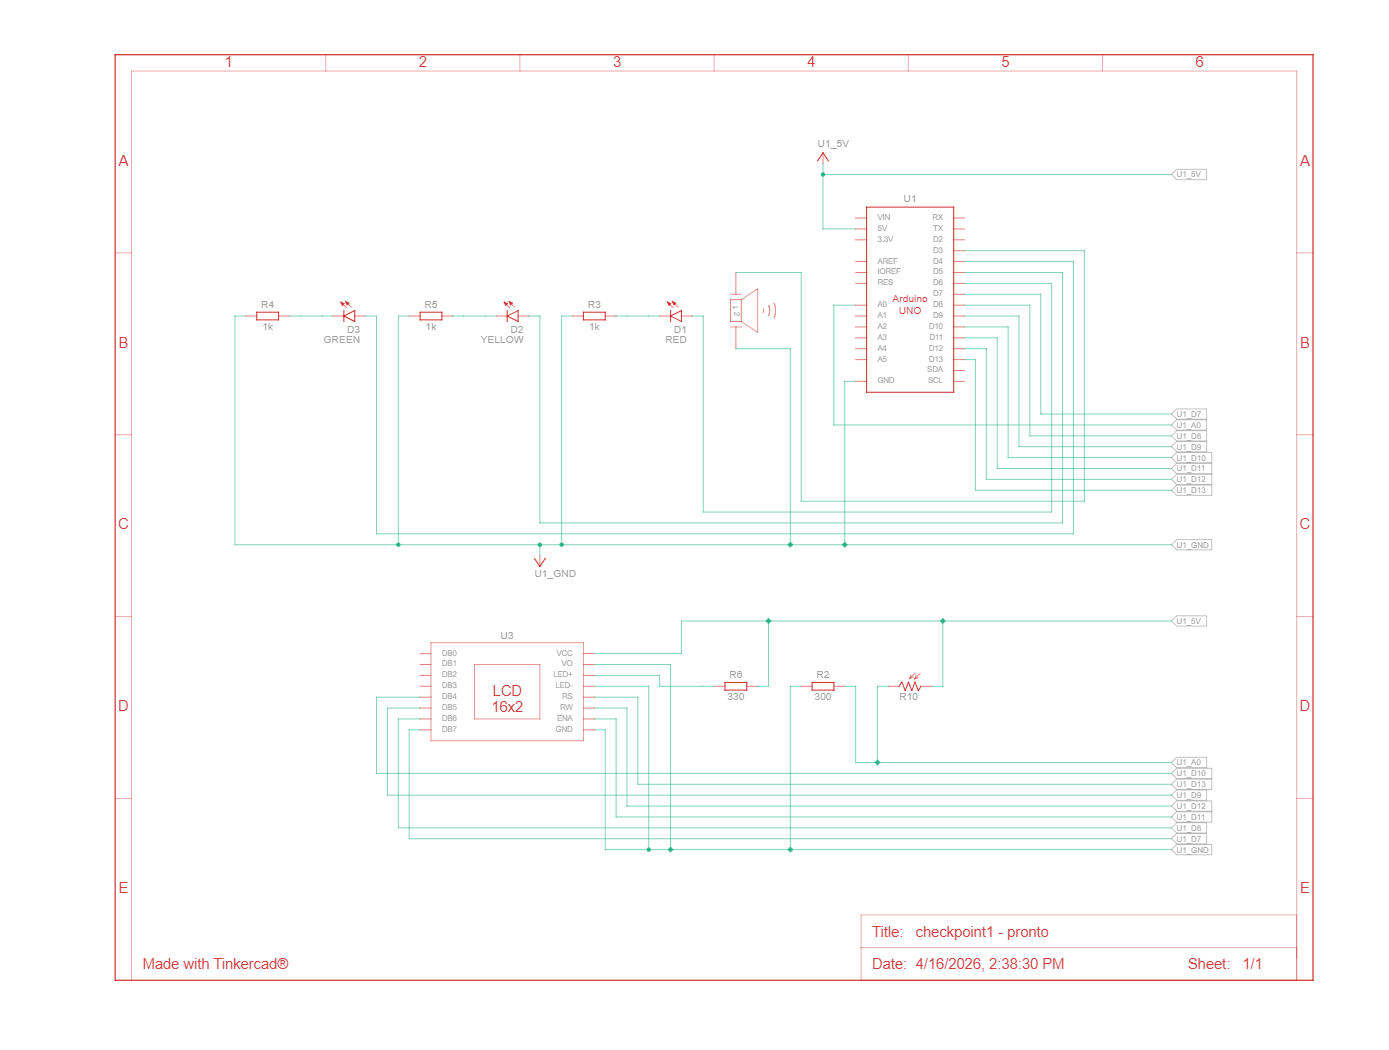
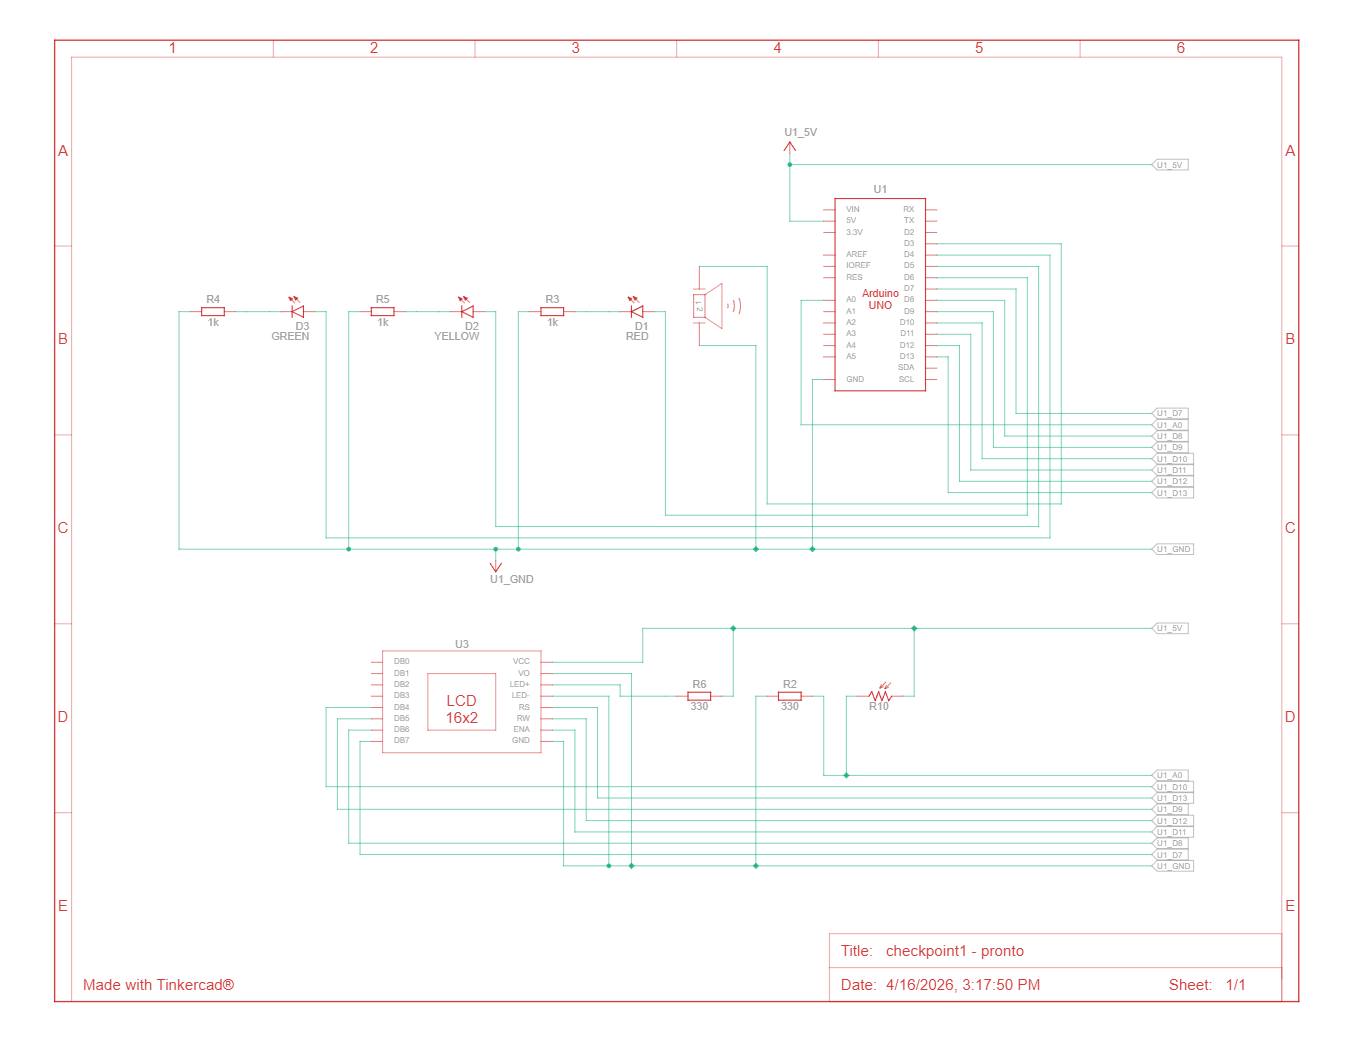
docs: Editando componentes

diff --git a/README.md b/README.md
@@ -24,13 +24,13 @@ O sistema opera da seguinte forma:
 | 1          | Protoboard 800 pinos      |
 | 1          | Protoboard 400 pinos      |
 | 1          | Display LCD 16x2          |
-| 1          | Sensor de luminosidade (LDR) — pino A0 |
+| 1          | Sensor de luminosidade (LDR)|
 | 1          | LED Verde                 |
 | 1          | LED Amarelo               |
 | 1          | LED Vermelho              |
 | 1          | Buzzer                    |
-| 3          | Resistor de 110Ω          |
-| 1          | Resistor de 300Ω          |
+| 3          | Resistor de 1kΩ           |
+| 2          | Resistor de 330Ω          |
 | 27         | Jumpers macho x macho     |
 
 ---
@@ -82,11 +82,11 @@ Os valores lidos pelo sensor analógico (0–1023) são convertidos para porcent
 
 ## 🖼 Diagrama do Circuito
 
-![Diagrama do Circuito Arduino](diagrama_circuito.png)
+![alt text](diagrama_circuito.png)
 
 ## 🖼 Diagrama Esquemático
 
-![Diagrama Esquemático](diagrama_esquematico.png)
+![alt text](diagrama_esquematico.png)
 
 
 
